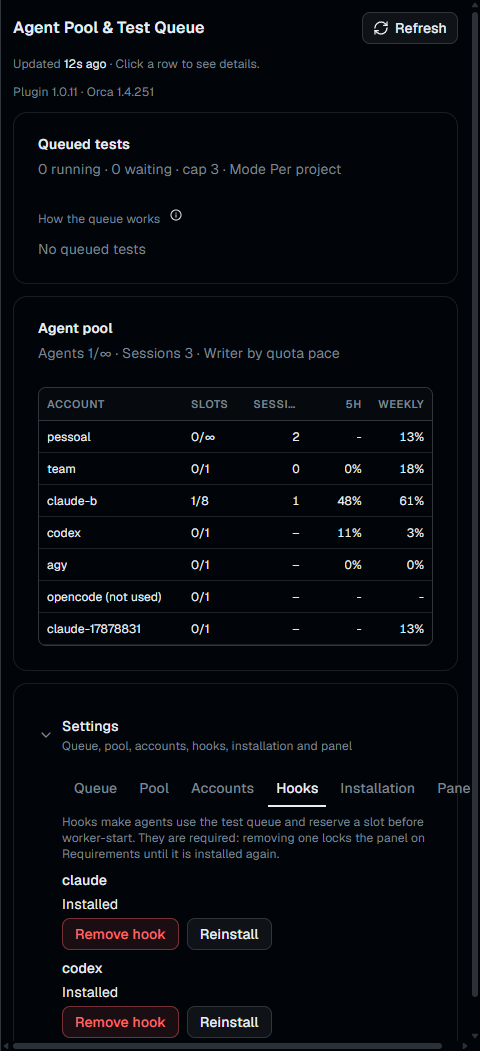
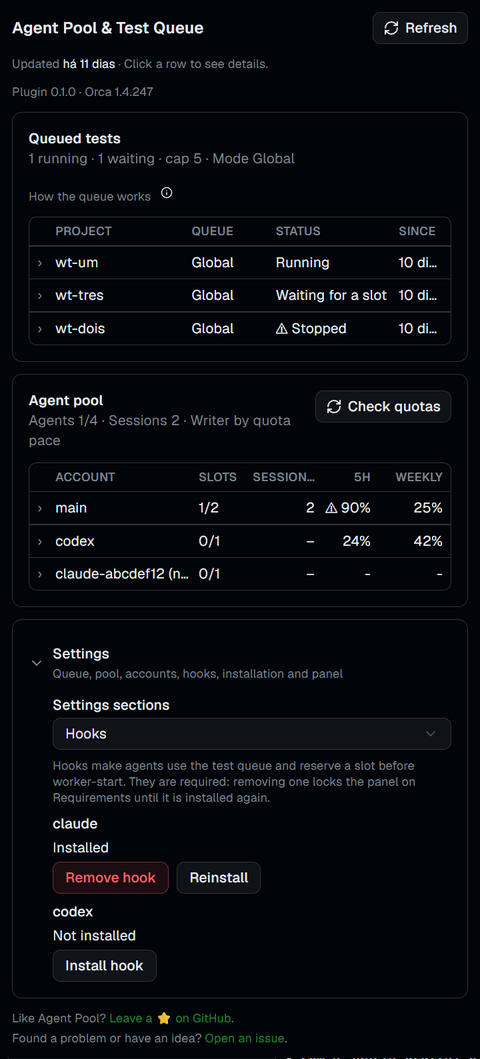
docs: README e capturas do painel com Verificar cotas e alterações pendentes

diff --git a/README.md b/README.md
@@ -28,7 +28,7 @@ An [Orca](https://github.com/stablyai/orca) plugin that lets many coding agents 
 
 ## Install
 1. In Orca, open **Settings → Plugins** and install **Agent Pool & Test Queue** from the catalog.
-   Not listed yet? Choose **Add plugin → From a Git URL…** and paste `https://github.com/VictorStochero/orca-agent-pool#v1.0.14`.
+   Not listed yet? Choose **Add plugin → From a Git URL…** and paste `https://github.com/VictorStochero/orca-agent-pool#v1.0.15`.
 2. Approve the access it asks for (a trusted worker and its own storage).
 3. Open the **Agent Pool** panel. Activation only creates the plugin's own folder `~/.agents/agent-pool/` (`config.json` and `state/`) and writes nothing else.
 4. The panel shows the **Requirements** screen. Each item is a row you open to see what it does, why the plugin needs it and the exact files a click will write; its **Install** button is inside the open row. All of them are required for the plugin to do its job:
@@ -62,13 +62,14 @@ orca orchestration worker-start ...
 A reservation that is never swapped expires after 10 minutes, and a slot whose dispatch Orca reports as finished is freed on the next read. With the hooks installed, a bare `php artisan test` is refused with the exact command to run instead.
 
 ## The panel
-| Settings · Accounts | Settings · Hooks | Settings · Installation |
-|---|---|---|
-| ![Accounts settings](assets/settings-accounts.png) | ![Hooks settings](assets/settings-hooks.png) | ![Installation settings](assets/settings-installation.png) |
+| Settings · unsaved changes | Settings · Accounts | Settings · Hooks | Settings · Installation |
+|---|---|---|---|
+| ![Unsaved changes in Settings](assets/settings-pending.png) | ![Accounts settings](assets/settings-accounts.png) | ![Hooks settings](assets/settings-hooks.png) | ![Installation settings](assets/settings-installation.png) |
 
 - **Tests in the queue**: what is running and waiting, per queue, with the process and how long it has waited.
-- **Agent pool**: slots in use per account (`2/∞` for an account without its own limit), open Claude sessions per account (including the ones you open yourself; a session without `--agent` is display only, while an agent session opened with `--agent <role>` takes a slot for as long as it stays open), 5-hour and weekly quota, and the details of each account on click.
-- **Settings**: a section selector for the queue, the pool, the accounts (**Configure** an account or **Add** a custom one), **Hooks** (install, reinstall or remove the hook per agent; removing one locks the panel on Requirements again), **Installation** (the requirement rows, always visible, **Check now** to read them again on demand, and **Uninstall everything**) and the panel itself.
+- **Agent pool**: slots in use per account (`2/∞` for an account without its own limit), open Claude sessions per account (including the ones you open yourself; a session without `--agent` is display only, while an agent session opened with `--agent <role>` takes a slot for as long as it stays open), 5-hour and weekly quota, and the details of each account on click. Quotas are measured every collection and reused for up to 5 minutes; **Check quotas** measures every account at once, skipping that reuse.
+- **Settings**: a section selector for the queue, the pool, the accounts (**Configure** an account or **Add** a custom one), **Hooks** (install, reinstall or remove the hook per agent; removing one locks the panel on Requirements again), **Installation** (the requirement rows, always visible, **Check now** to read them again on demand, and **Uninstall everything**) and the panel itself. A change you have not saved shows a yellow box listing each field as "before → after", with **Save** and **Discard**; the section selector, the account selector and the folded Settings title show how many changes are still unsaved, so switching sections does not hide them. With nothing changed, **Save** is disabled.
+- While **Refresh**, **Check quotas** or **Check now** is working, the button turns into a spinning indicator until it finishes.
 
 ## The test queue
 Run tests with `agent-pool test` (detects the runner) or `agent-pool test -- <command>`.
@@ -199,6 +200,7 @@ orca plugin dev load . # load this folder into Orca (the real install)
 - Tests isolate `HOME` and `USERPROFILE`, and a guard fails the suite if it touches your real home.
 
 ## Changelog
+- **1.0.15**: **Check quotas** in the Agent pool section measures every account at once, without reusing a measure from the last 5 minutes (as `agent-pool measure` does in the terminal). **Refresh**, **Check quotas** and **Check now** turn into a spinning indicator while they work. In Settings, a change not yet saved shows a yellow box with each field as "before → after", **Save** and **Discard**; the section and account selectors and the folded Settings title count the unsaved changes, and **Save** stays disabled while nothing changed. New README screenshots.
 - **1.0.14**: a long detail in the Queue and Pool tables (more than about two lines) shows one line cut at the panel's width with **show more**, which opens the whole text (**show less** folds it back); the progress has the passed/failed count on a second line. The table columns are as wide as their content and both tables fit a panel about 380px wide without horizontal scrolling; the last column (the weekly percentage) no longer spills past the border. In per-project mode the Queue column says only "Project", since the project name is in its own column, and a test waiting for the machine cap says "Cap".
 - **1.0.13**: follow a running test from the panel. The queue passes the test's output through to the terminal and records the last output, the last line, the number of lines and the progress: a bar with the percentage, done/total and how many passed and failed. The total comes from what the tool prints (PHPUnit, pytest) or, for `artisan test`, Pest and PHPUnit, from a `--list-tests` run in parallel; Pest's `--compact` dots count too. A running test that prints nothing for longer than `fila.sem_saida_min` minutes (default 5, 0 turns it off) raises a "no output" warning. The Queue and Pool tables are drawn by the plugin in Orca's style: click anywhere on a row to open it, details in two columns, horizontal scroll on a narrow panel; Command and Worktree copy clean. Settings uses a section selector instead of tabs, so it fits a narrow panel, and the queue settings show only the fields of the chosen mode. A footer links to the repository and to new issues. Orca 1.4.248 is now the minimum.
 - **1.0.12**: the hooks refuse a launcher path with quotes, `$`, a backtick, `%` or a line break (the same rule as the launcher), because the shells that run the hook would expand them and break it; the panel says why when you press Install. The catalog listing gets an icon, a cover, screenshots and a description of what you get.
@@ -227,7 +229,7 @@ Found a problem or have an idea? [Open an issue](https://github.com/VictorStoche
 
 Plugin do Orca que deixa vários agentes de código dividirem uma máquina com segurança: **pool de agentes** (contas com vagas, peso e papéis; o escritor de cada tarefa é a conta com mais cota sobrando × peso, ou a primeira da sua ordem), **fila de testes** para qualquer linguagem (por máquina e por recurso disputado, como o mesmo banco de testes), **hooks** no Claude Code e no Codex que fazem as regras valerem mesmo quando o agente esquece, e um **painel** no Orca, em português ou inglês conforme o idioma do Orca, com tudo configurável.
 
-**Instalação:** pelo catálogo de plugins do Orca (Configurações → Plugins) ou por **Add plugin → From a Git URL…** com `https://github.com/VictorStochero/orca-agent-pool#v1.0.14`; aprove o acesso e abra o painel **Agent Pool**. A ativação só cria `~/.agents/agent-pool/`. A tela de **Requisitos** lista o que o plugin precisa (Orca, skill `orchestration`, skill `agent-pool`, lançador `~/.agents/bin/agent-pool` e hooks), todos obrigatórios: cada linha abre para mostrar o que o item faz e os arquivos que o clique vai gravar, e só o botão **Instalar** grava. O `~/.codex/config.toml` nunca é tocado: o Codex pede a confiança no hook (o hook do Codex mudou de forma na 1.0.11 para o Codex pedir essa confiança de novo a quem vem da 1.0.10: o painel acusa "desatualizado" e o clique em **Instalar** troca o grupo; a tabela `[hooks.state.…]` com o `trusted_hash` que a 1.0.10 gravou lá deixa de valer e pode ser apagada à mão). No Windows o hook do Codex da 1.0.10 nunca bloqueou nada: o Codex roda o comando do hook pelo PowerShell, que recusava o comando antigo; agora ele começa com `& `. Conta detectada e desativada não exige nada; ao ativá-la, o painel pede o hook e a skill do agente dela. O Orca mínimo é o 1.4.247. O painel volta a travar em Requisitos se algo sumir (hook removido, conta nova sem hook, lançador desatualizado depois de uma atualização).
+**Instalação:** pelo catálogo de plugins do Orca (Configurações → Plugins) ou por **Add plugin → From a Git URL…** com `https://github.com/VictorStochero/orca-agent-pool#v1.0.15`; aprove o acesso e abra o painel **Agent Pool**. A ativação só cria `~/.agents/agent-pool/`. A tela de **Requisitos** lista o que o plugin precisa (Orca, skill `orchestration`, skill `agent-pool`, lançador `~/.agents/bin/agent-pool` e hooks), todos obrigatórios: cada linha abre para mostrar o que o item faz e os arquivos que o clique vai gravar, e só o botão **Instalar** grava. O `~/.codex/config.toml` nunca é tocado: o Codex pede a confiança no hook (o hook do Codex mudou de forma na 1.0.11 para o Codex pedir essa confiança de novo a quem vem da 1.0.10: o painel acusa "desatualizado" e o clique em **Instalar** troca o grupo; a tabela `[hooks.state.…]` com o `trusted_hash` que a 1.0.10 gravou lá deixa de valer e pode ser apagada à mão). No Windows o hook do Codex da 1.0.10 nunca bloqueou nada: o Codex roda o comando do hook pelo PowerShell, que recusava o comando antigo; agora ele começa com `& `. Conta detectada e desativada não exige nada; ao ativá-la, o painel pede o hook e a skill do agente dela. O Orca mínimo é o 1.4.247. O painel volta a travar em Requisitos se algo sumir (hook removido, conta nova sem hook, lançador desatualizado depois de uma atualização).
 
 **Desinstalação:** o Orca não avisa o plugin quando ele é removido. Antes de remover o plugin, use **Configurações → Instalação → Desinstalar tudo**: tira os hooks de todas as pastas, a skill, o lançador e `~/.agents/agent-pool/`. Se algum arquivo de agente não puder ser alterado, mostra qual e mantém a skill, o lançador e `~/.agents/agent-pool/`; os hooks que já saíram de outros arquivos não voltam.
 
